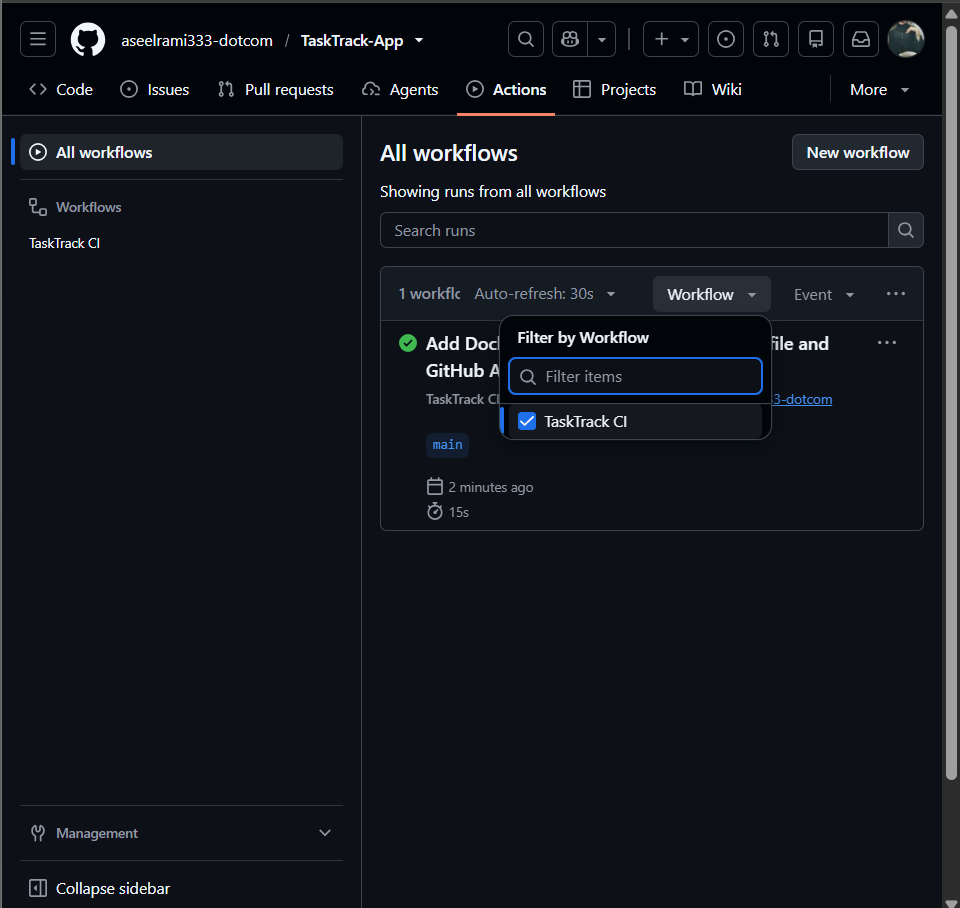
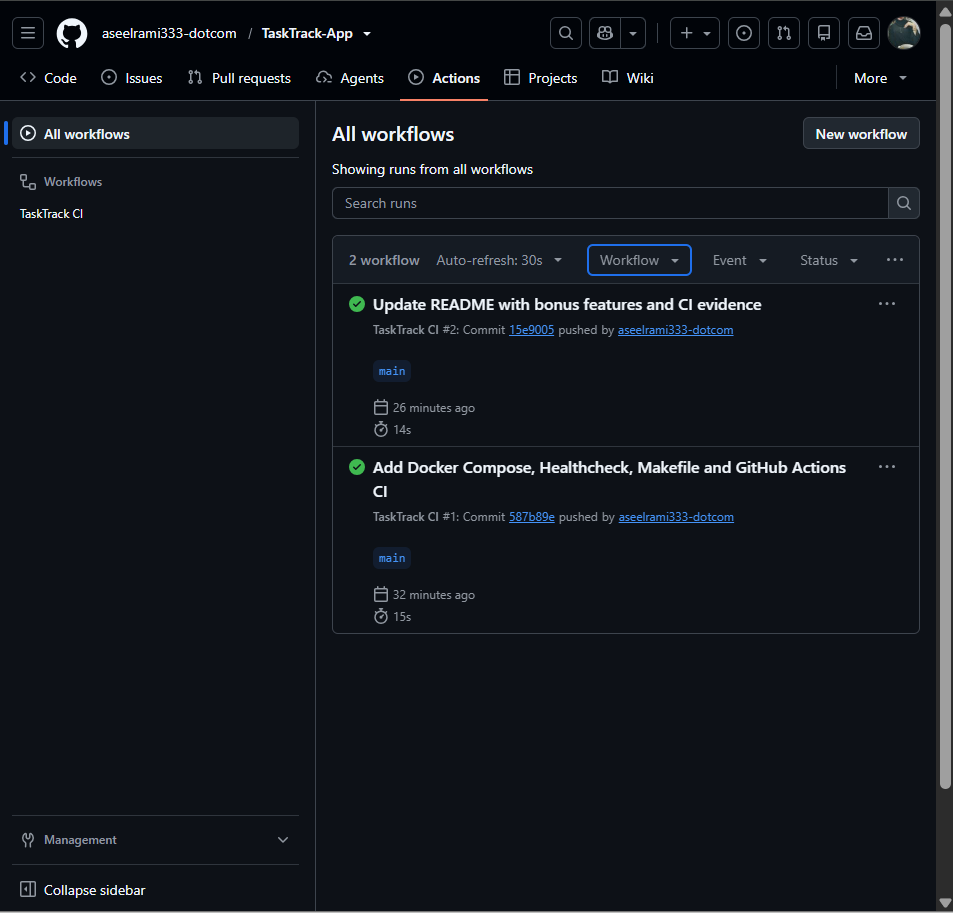
Update project structure and GitHub Actions screenshot

Changed region(s): [[0.0, 0.0, 1.0, 0.8634], [0.0, 0.8943, 1.0, 1.0], [0.3652, 0.6476, 0.4869, 0.7093]]

diff --git a/README.md b/README.md
@@ -18,17 +18,23 @@ I built this project using Python and Flask, and used Docker to run the applicat
 
 ```text
 TaskTrack-App/
-|-- src/
-|   |-- app.py
-|   |-- templates/
-|       |-- index.html
-|-- docs/
-|   |-- screenshots/
-|-- Dockerfile
-|-- .dockerignore
-|-- .gitignore
-|-- requirements.txt
-|-- README.md
+├── .github/
+│   └── workflows/
+│       └── ci.yml
+├── docs/
+│   ├── screenshots/
+│   └── notes.md
+├── src/
+│   ├── app.py
+│   └── templates/
+│       └── index.html
+├── .dockerignore
+├── .gitignore
+├── Dockerfile
+├── docker-compose.yml
+├── Makefile
+├── README.md
+└── requirements.txt
 ```
 
 ## How to Run the Project
@@ -212,4 +218,5 @@ A successful workflow run confirms that the Docker configuration is valid and th
 ### 9. GitHub Actions CI
 
 ![GitHub Actions Success](docs/screenshots/github-actions-success.png)
+
 
